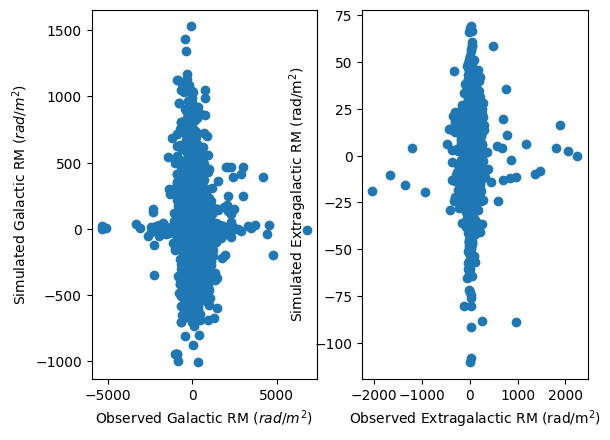
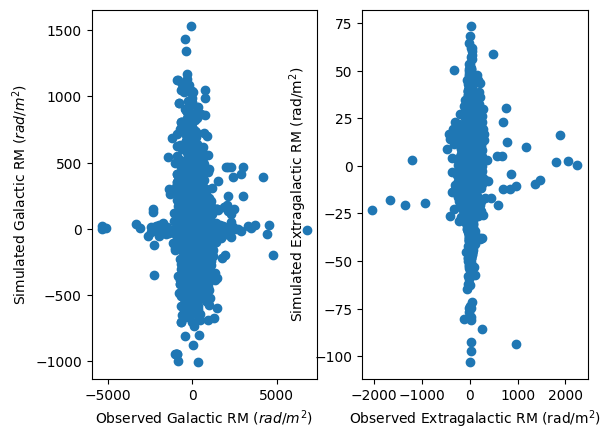
Version with two and three components.

diff --git a/src/model_library/extra_galactic_models/ExtraGalModel.py b/src/model_library/extra_galactic_models/ExtraGalModel.py
@@ -19,7 +19,7 @@ class ExtraGalModel(Model):
  
     def set_model(self):
 
-        if(self.params['params.n_eg_params'] < 4): #1 param
+        if(self.params['params.n_eg_params'] == 1): #1 param
             multiply_sigma1 = ift.makeOp(ift.full(ift.DomainTuple.scalar_domain(), self.params['std.std_one']), sampling_dtype=float)
             add_mu1 = ift.Adder(ift.full(ift.DomainTuple.scalar_domain(), self.params['mean.mean_one']))
             chi1 = add_mu1 @ multiply_sigma1 @ ift.FieldAdapter(ift.DomainTuple.scalar_domain(), 'chi1') 
@@ -29,6 +29,146 @@ class ExtraGalModel(Model):
             sigmaRm2=(expander_chi @ chi1).exp() 
             self._model = sigmaRm2
             self._components.update({'chi1': chi1})
+
+        if(self.params['params.n_eg_params'] == 2): #1 param
+            multiply_sigma_int = ift.makeOp(ift.full(ift.DomainTuple.scalar_domain(), self.params['std.std_int']), sampling_dtype=float)
+            multiply_sigma_env = ift.makeOp(ift.full(ift.DomainTuple.scalar_domain(), self.params['std.std_env']), sampling_dtype=float)
+            add_mu_int = ift.Adder(ift.full(ift.DomainTuple.scalar_domain(), self.params['mean.mean_int']))
+            add_mu_env = ift.Adder(ift.full(ift.DomainTuple.scalar_domain(), self.params['mean.mean_env']))
+
+            chi_env_0 = add_mu_env @ multiply_sigma_env @ ift.FieldAdapter(ift.DomainTuple.scalar_domain(), 'chi_env_0')
+            chi_int_0 = add_mu_int @ multiply_sigma_int @ ift.FieldAdapter(ift.DomainTuple.scalar_domain(), 'chi_int_0') 
+
+           
+            
+            light_speed =  Egf.const['c']
+            h =  Egf.const['Jens']['h']
+            Wm = Egf.const['Jens']['Wm']
+            Wc = Egf.const['Jens']['Wc']
+            Wl = Egf.const['Jens']['Wl']
+            H0 = 100 * h
+            
+            cosmo = FlatLambdaCDM(H0=H0, Om0=Wm)  
+            L0 = float(Egf.const['L0'])
+            D0 = Egf.const['D0']
+            Dl=cosmo.luminosity_distance(self.z).value
+            factor = float(Egf.const['factor'])
+
+            multiply_z = ift.makeOp(ift.Field(self.target_domain, 1./(1+self.z)**4),sampling_dtype=float)
+
+            multiply_L = ift.makeOp(ift.Field(self.target_domain, (self.F*4*m.pi*Dl**2*factor/L0)),sampling_dtype=float)
+
+
+            expander_chi = ift.VdotOperator(ift.full(self.target_domain, 1.)).adjoint
+
+            term= multiply_z @ expander_chi(chi_int_0.exp())
+
+            fact1 = multiply_L @ term
+        
+            nz = Egf.const['nz']  # number of redshift bins
+            normalized_z_domain = ift.RGSpace(nz, 1/nz) # that's the redshift domain. The volume is set to one, as we will manually mutiply with the real z distance later, since it is not the same for each LoS.
+            
+            full_domain = ift.DomainTuple.make((self.target_domain[0], normalized_z_domain,))
+            integrator = ift.ContractionOperator(full_domain, spaces=1) # this is the integration operator, mapping the full domain on the target_domain via a sum
+            expander = integrator.adjoint # the adjoint of this operator projects a field in the target_domain onto the full_domain
+            
+            # constructing the z_grid field
+            z_grid = np.empty(full_domain.shape) 
+            for i, z in enumerate(self.z):
+                z_grid[i] = np.linspace(1, 1 + z, nz) 
+            z_grid = ift.Field(full_domain, z_grid)
+        
+            # now we proceed as before, just that the operators are defined on the full combined domain
+            add_4 = ift.Adder(ift.full(full_domain, 4))
+            multiply_1pz = ift.makeOp(z_grid.log(), sampling_dtype=float)
+            fact3 = (multiply_1pz @ add_4 @ expander).exp()  # expander maps chi_red on the full domain
+            fact4 = ift.makeOp(((light_speed/(H0*(Wm*z_grid**3+Wc*z_grid**2 +Wl)**0.5))*(1/D0)),sampling_dtype=float)
+
+            fact5 = fact4 @ fact3
+
+            z_weights = ift.makeOp(ift.Field(self.target_domain, self.z / nz),sampling_dtype=float) # these are the z_weights to rescale the integral accordingly
+            #fact6 = z_weights @ integrator @ (fact5 * (expander @ expander_chi @ chi_env_0.exp()))
+            fact6 =(z_weights @ integrator @ fact5) @ expander_chi @ chi_env_0.exp()
+
+            
+            sigmaRm2 = fact1 + fact6
+
+
+        
+            self._model = sigmaRm2
+            self._components.update({'chi_int_0': chi_int_0, 'chi_env_0': chi_env_0, })
+
+
+        if(self.params['params.n_eg_params'] == 3): #1 param
+            multiply_sigma_int = ift.makeOp(ift.full(ift.DomainTuple.scalar_domain(), self.params['std.std_int']), sampling_dtype=float)
+            multiply_sigma_red = ift.makeOp(ift.full(ift.DomainTuple.scalar_domain(), self.params['std.std_red']), sampling_dtype=float)
+            multiply_sigma_env = ift.makeOp(ift.full(ift.DomainTuple.scalar_domain(), self.params['std.std_env']), sampling_dtype=float)
+            add_mu_int = ift.Adder(ift.full(ift.DomainTuple.scalar_domain(), self.params['mean.mean_int']))
+            add_mu_red = ift.Adder(ift.full(ift.DomainTuple.scalar_domain(), self.params['mean.mean_red']))
+            add_mu_env = ift.Adder(ift.full(ift.DomainTuple.scalar_domain(), self.params['mean.mean_env']))
+
+            chi_env_0 = add_mu_env @ multiply_sigma_env @ ift.FieldAdapter(ift.DomainTuple.scalar_domain(), 'chi_env_0')
+            chi_red = add_mu_red @ multiply_sigma_red @ ift.FieldAdapter(ift.DomainTuple.scalar_domain(), 'chi_red') 
+            chi_int_0 = add_mu_int @ multiply_sigma_int @ ift.FieldAdapter(ift.DomainTuple.scalar_domain(), 'chi_int_0') 
+
+           
+            
+            light_speed =  Egf.const['c']
+            h =  Egf.const['Jens']['h']
+            Wm = Egf.const['Jens']['Wm']
+            Wc = Egf.const['Jens']['Wc']
+            Wl = Egf.const['Jens']['Wl']
+            H0 = 100 * h
+            
+            cosmo = FlatLambdaCDM(H0=H0, Om0=Wm)  
+            L0 = float(Egf.const['L0'])
+            D0 = Egf.const['D0']
+            Dl=cosmo.luminosity_distance(self.z).value
+            factor = float(Egf.const['factor'])
+
+            multiply_z = ift.makeOp(ift.Field(self.target_domain, 1./(1+self.z)**4),sampling_dtype=float)
+
+            multiply_L = ift.makeOp(ift.Field(self.target_domain, (self.F*4*m.pi*Dl**2*factor/L0)),sampling_dtype=float)
+
+
+            expander_chi = ift.VdotOperator(ift.full(self.target_domain, 1.)).adjoint
+
+            term= multiply_z @ expander_chi(chi_int_0.exp())
+
+            fact1 = multiply_L @ term
+        
+            nz = Egf.const['nz']  # number of redshift bins
+            normalized_z_domain = ift.RGSpace(nz, 1/nz) # that's the redshift domain. The volume is set to one, as we will manually mutiply with the real z distance later, since it is not the same for each LoS.
+            
+            full_domain = ift.DomainTuple.make((self.target_domain[0], normalized_z_domain,))
+            integrator = ift.ContractionOperator(full_domain, spaces=1) # this is the integration operator, mapping the full domain on the target_domain via a sum
+            expander = integrator.adjoint # the adjoint of this operator projects a field in the target_domain onto the full_domain
+            
+            # constructing the z_grid field
+            z_grid = np.empty(full_domain.shape) 
+            for i, z in enumerate(self.z):
+                z_grid[i] = np.linspace(1, 1 + z, nz) 
+            z_grid = ift.Field(full_domain, z_grid)
+        
+            # now we proceed as before, just that the operators are defined on the full combined domain
+            add_4 = ift.Adder(ift.full(full_domain, 4))
+            multiply_1pz = ift.makeOp(z_grid.log(), sampling_dtype=float)
+            fact3 = (multiply_1pz @ add_4 @ expander @ expander_chi @ chi_red).exp()  # expander maps chi_red on the full domain
+            fact4 = ift.makeOp(((light_speed/(H0*(Wm*z_grid**3+Wc*z_grid**2 +Wl)**0.5))*(1/D0)),sampling_dtype=float)
+
+            fact5 = fact4 @ fact3
+
+            z_weights = ift.makeOp(ift.Field(self.target_domain, self.z / nz),sampling_dtype=float) # these are the z_weights to rescale the integral accordingly
+            fact6 = z_weights @ integrator @ (fact5 * (expander @ expander_chi @ chi_env_0.exp()))
+
+            
+            sigmaRm2 = fact1 + fact6
+
+
+        
+            self._model = sigmaRm2
+            self._components.update({'chi_red': chi_red, 'chi_int_0': chi_int_0, 'chi_env_0': chi_env_0, })
+
 
         else: #4 params
 
@@ -51,13 +191,7 @@ class ExtraGalModel(Model):
             chi_int_0 = add_mu_int @ multiply_sigma_int @ ift.FieldAdapter(ift.DomainTuple.scalar_domain(), 'chi_int_0') 
             chi_lum = add_mu_lum @ multiply_sigma_lum @ ift.FieldAdapter(ift.DomainTuple.scalar_domain(), 'chi_lum')
 
-            #if zero_prior==1:
-            #chi_int_0=ift.FieldAdapter(ift.DomainTuple.scalar_domain(), 'chi_int_0')
-            #chi_lum=ift.FieldAdapter(ift.DomainTuple.scalar_domain(), 'chi_lum')
-            #chi_env_0=ift.FieldAdapter(ift.DomainTuple.scalar_domain(), 'chi_env_0')
-            #chi_red=ift.FieldAdapter(ift.DomainTuple.scalar_domain(), 'chi_red')
-            
-            
+           
             
             light_speed =  Egf.const['c']
             h =  Egf.const['Jens']['h']
